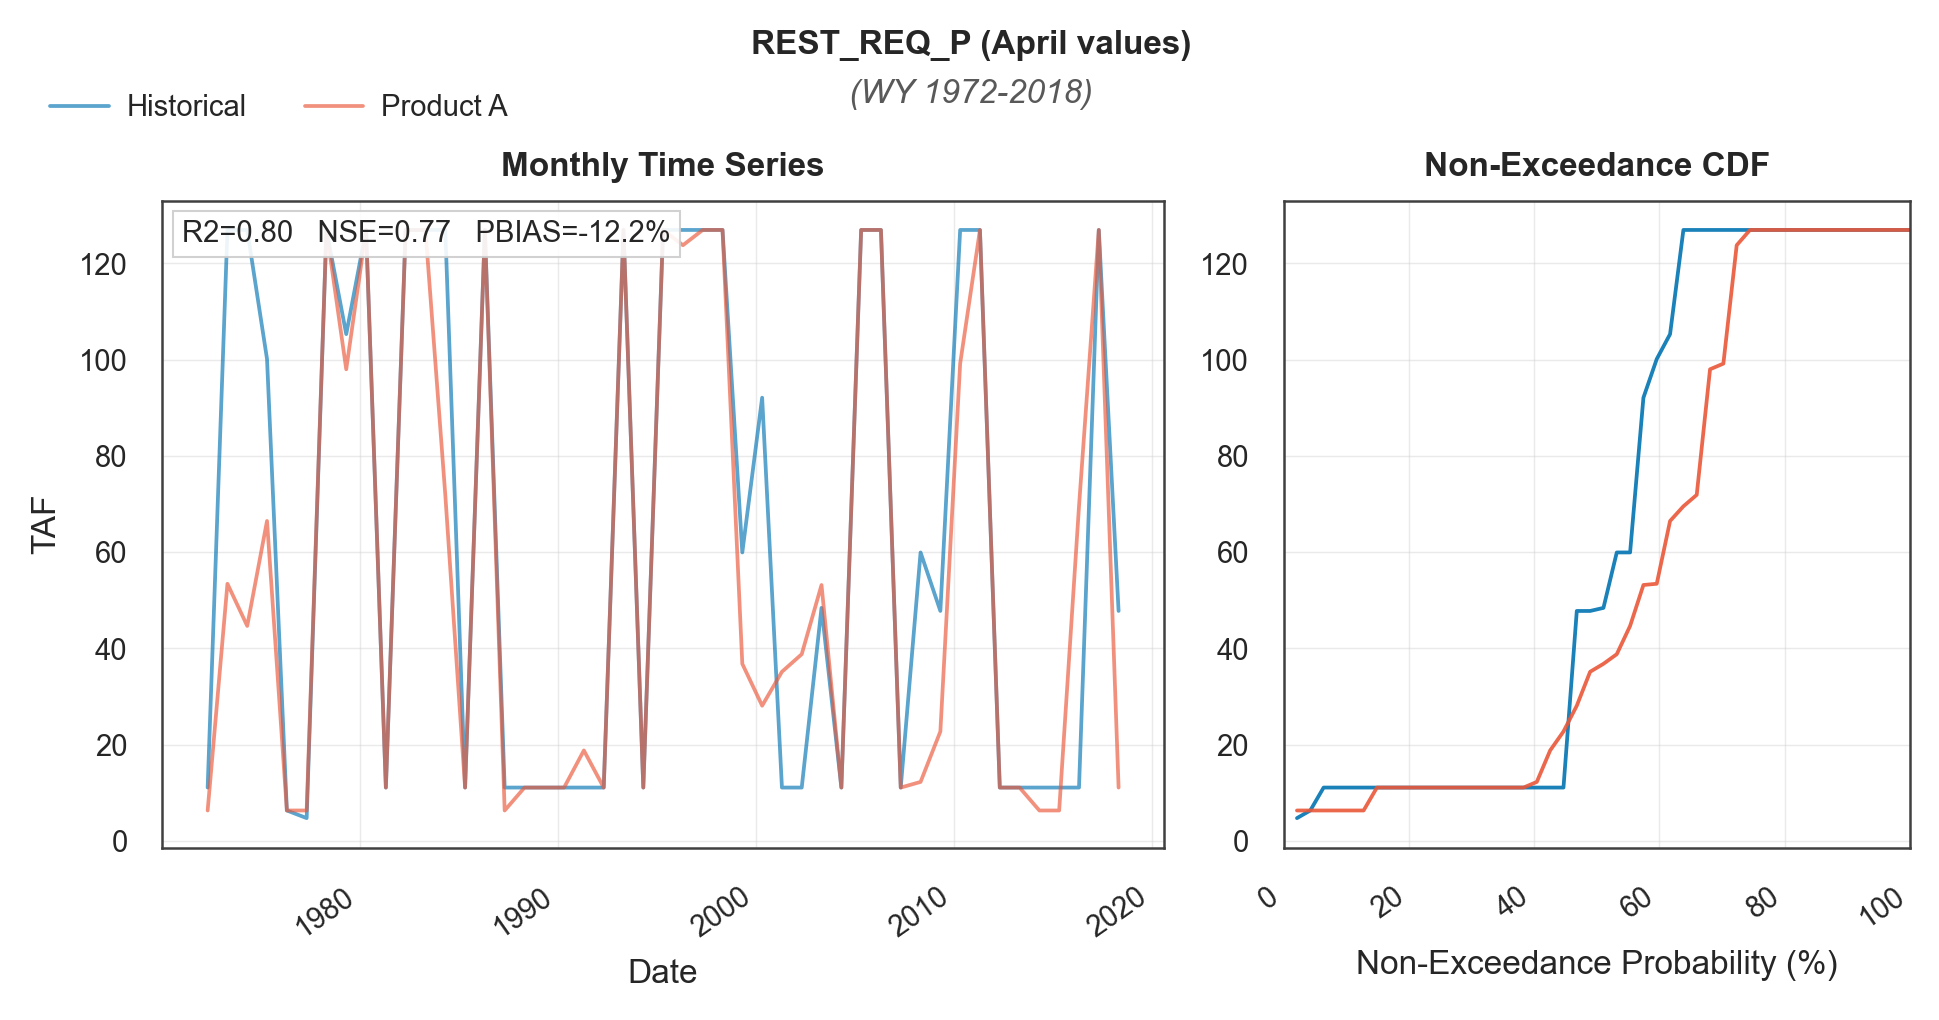
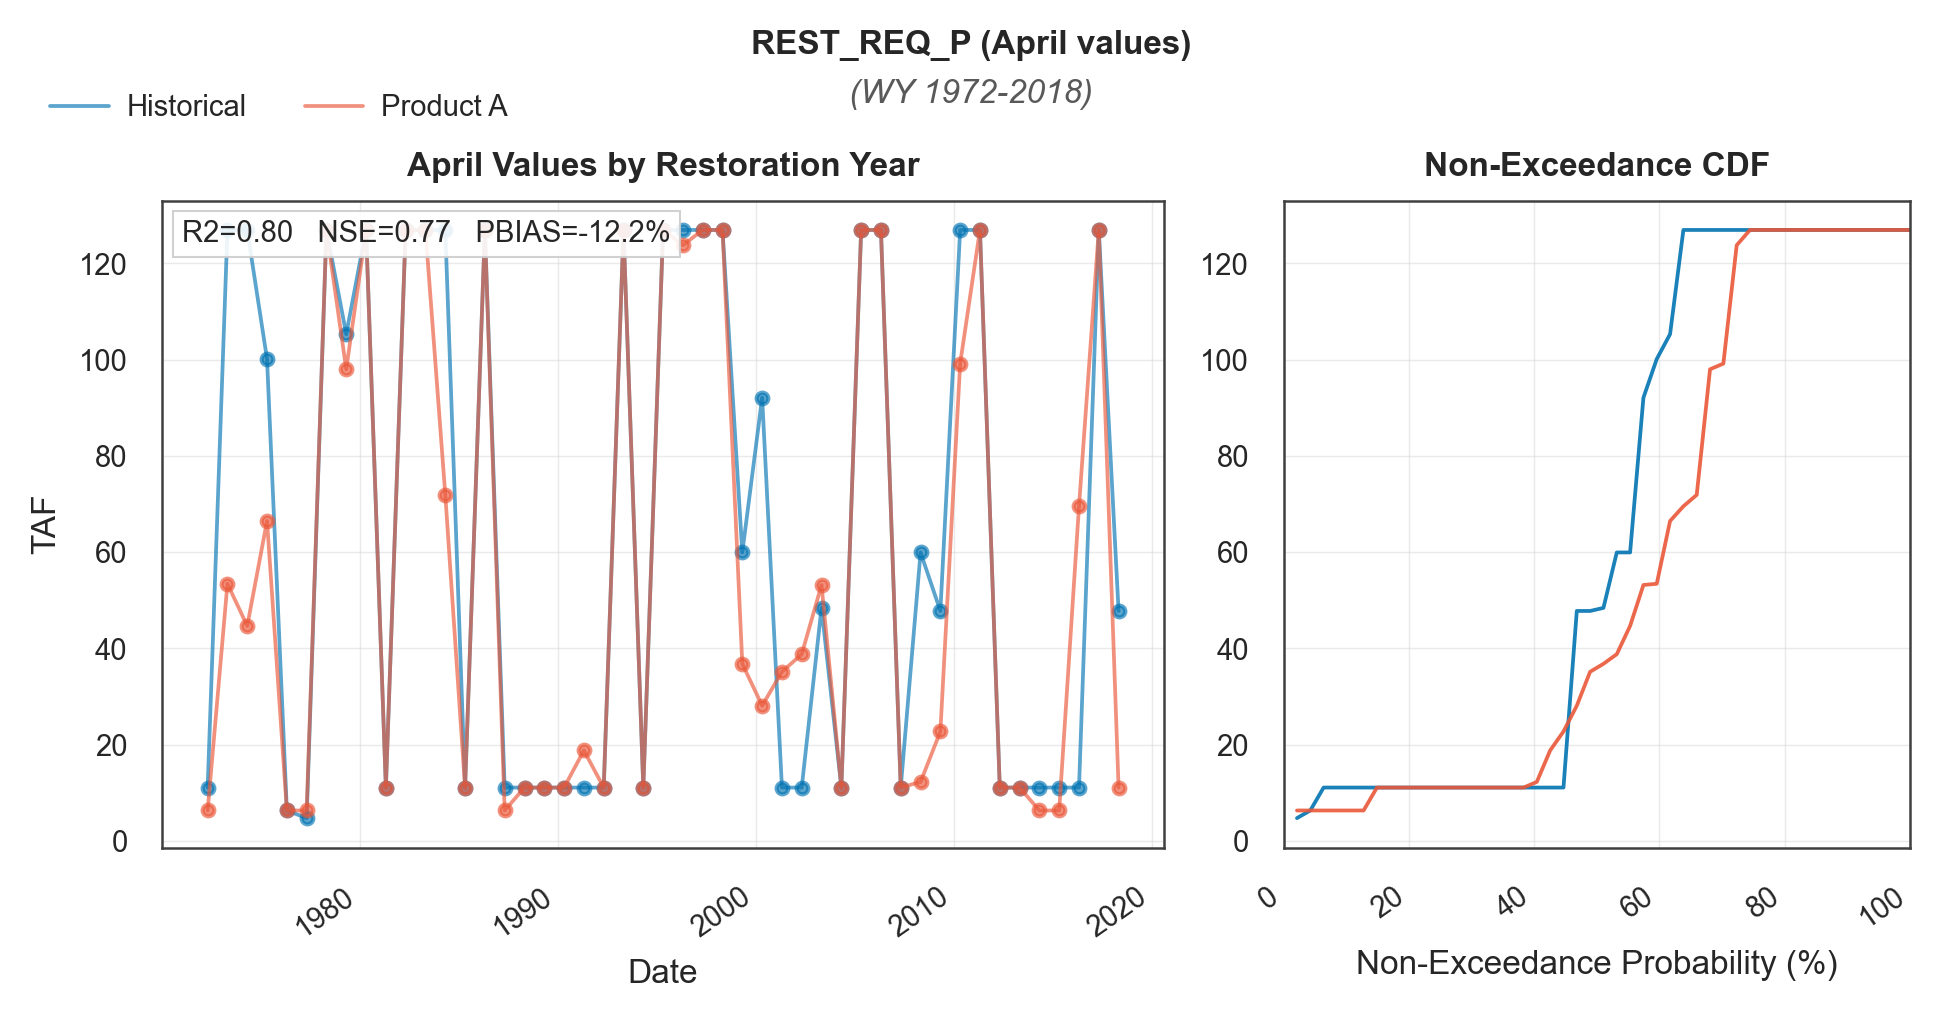
refine SJR Results section and pulse validation figure
- reframe Results around two comparisons with explicit statistic
  conventions (non-pulse monthly, pulse April values only) and add R2
  alongside NSE/PBIAS
- explain threshold step vs April ramp mechanisms with concrete rates
  and a WY 1973 example; state PBIAS sign convention
- pulse figure: retitle left panel to April Values by Restoration Year
  and add per-year markers

diff --git a/mod_other/instream_flows/_2_sjr_rest_req.py b/mod_other/instream_flows/_2_sjr_rest_req.py
@@ -596,7 +596,7 @@ def plot_product_a_validation(
     the actual CalSim input, in the shared ``utils.validation_plots`` style.
     Non-pulse compares monthly values; pulse compares April values only.
     ``crossing_years`` restoration years (Mar-Feb) are shaded on the
-    non-pulse panel only; the crossings barely move the pulse.
+    non-pulse panel.
     """
     import matplotlib.pyplot as plt
     from utils.validation_plots import Series, plot_ts_cdf
@@ -628,6 +628,13 @@ def plot_product_a_validation(
             unit="TAF",
             compute_metrics_from=0,
         )
+        if bpart == pulse_bpart:
+            # One value per restoration year: mark the points and retitle.
+            ax_ts = fig.axes[0]
+            ax_ts.set_title("April Values by Restoration Year")
+            for line in ax_ts.lines:
+                line.set_marker("o")
+                line.set_markersize(2.8)
         if shade:
             ax_ts = fig.axes[0]
             for ry in crossing_years or []:

diff --git a/docs/source/input-generation/mod-other-instream-flows.md b/docs/source/input-generation/mod-other-instream-flows.md
@@ -54,15 +54,15 @@ The resulting schedule applies over a restoration year running from March throug
 
 ### Results
 
-Two comparisons validate the reconstruction. The first isolates algorithm fidelity: driving the reconstruction with the same unimpaired flow series underlying the CalSim baseline reproduces the actual inputs over WY 1922-2021 with NSE of 0.99 for both the non-pulse and pulse components. Residuals exceeding 1 TAF occur in fewer than 4% of months, confined to restoration years 2004 and later where the baseline inputs depart from the pure settlement schedule.
+The reconstruction was evaluated with two comparisons that separate reproduction of the workbook logic from the effects of substituting VIC-based hydrology. The first comparison drives the reconstruction with the same historical UNIMP_SJ series used to develop the CalSim 3 reference inputs, so remaining differences reflect the algorithm alone. Over WY 1922-2021 the reconstruction achieves NSE = 0.99 against the reference inputs for both the monthly non-pulse series and the April pulse values.
 
-The second comparison drives the reconstruction with the VIC-based unimpaired flows underlying Product A. In each figure below the left panel compares the reconstructed Product A series with the historical CalSim input, and the right compares their non-exceedance distributions. Over WY 1972-2018 the reconstruction achieves NSE = 0.88 for the monthly non-pulse series and NSE = 0.77 for the April pulse values. Because the algorithm itself is near exact, these differences stem from differences between the CalSim baseline and VIC-based estimates of unimpaired Millerton runoff. Non-pulse spikes correspond to years where the two runoff estimates fall on opposite sides of a schedule threshold (shaded gray in the non-pulse figure), most visibly at the 2.5 MAF threshold where the May and June requirements step to their maximum. Pulse differences instead track runoff disagreement across the steep continuous ramp in the April schedule, which climbs from 350 to 4,000 CFS as the annual allocation moves between the Normal-Dry and Normal-Wet reference schedules, so the pulse remains sensitive even when no threshold is crossed. Both behaviors follow directly from the schedule structure, confirming correct algorithm implementation. The negative PBIAS values reflect the VIC-based runoff falling below the CalSim estimate in most divergent years.
+The second comparison drives the reconstruction with the VIC-based UNIMP_SJ series developed for Product A and compares the result with the same reference inputs. In each figure below the left panel shows the series and the right panel their non-exceedance distributions. Over WY 1972-2018 the monthly non-pulse series achieves R^2 = 0.89, NSE = 0.88, and PBIAS = -4.7%; the April pulse values achieve R^2 = 0.80, NSE = 0.77, and PBIAS = -12.2%. Because the first comparison establishes near exact reproduction of the workbook logic, these differences primarily reflect differences between the VIC-based and historical estimates of San Joaquin River unimpaired runoff into Millerton Lake. Non-pulse discrepancies concentrate in years where the two runoff estimates fall on opposite sides of a discontinuous schedule threshold (shaded gray in the non-pulse figure). The effect is largest at the 2.5 MAF threshold, where the May-Jun rate steps from 350 to 2,000 CFS: a year whose historical runoff falls just above 2.5 MAF while the VIC-based runoff falls just below receives very different May and June requirements. The April pulse is instead sensitive across a wide runoff range. Its Apr 16-30 rate is 350 CFS in the Normal-Dry reference schedule and 4,000 CFS in the Normal-Wet reference schedule, so allocations between the two, corresponding to roughly 1.2 to 2.0 MAF of annual runoff, place the pulse on a steep interpolated ramp. Runoff disagreements within this range produce large pulse differences without any threshold crossing. In WY 1973, for example, the historical runoff estimate (2.0 MAF) yields the full 4,000 CFS pulse, while the VIC-based estimate (1.5 MAF) yields roughly 1,700 CFS. Negative PBIAS indicates the reconstruction is lower in aggregate than the reference, consistent with lower VIC-based runoff estimates in most divergent years.
 
 ![REST_REQ_NP reconstruction](figures/s3-inputs_sjr-rest-req-np-validation.png)
-*`REST_REQ_NP` non-pulse restoration requirement reconstruction (WY 1972-2018). NSE = 0.88, PBIAS = -4.7%; Product A (orange) vs historical (blue). Gray bands mark restoration years where the CalSim and VIC-based annual runoff fall on opposite sides of a schedule threshold (400 TAF, 670 TAF, or 2.5 MAF).*
+*`REST_REQ_NP` non-pulse restoration requirement reconstruction (WY 1972-2018). NSE = 0.88, PBIAS = -4.7%; Product A (orange) vs historical (blue). Gray bands mark restoration years where the historical and VIC-based annual runoff estimates fall on opposite sides of a discontinuous schedule threshold (400 TAF, 670 TAF, or 2.5 MAF). Statistics are computed from monthly values.*
 
 ![REST_REQ_P reconstruction](figures/s3-inputs_sjr-rest-req-p-validation.png)
-*`REST_REQ_P` pulse restoration requirement reconstruction, April values (WY 1972-2018; pulse flows apply only during April). NSE = 0.77, PBIAS = -12.2%; Product A (orange) vs historical (blue). Differences track runoff disagreement across the steep April ramp of the release schedules rather than threshold crossings.*
+*`REST_REQ_P` pulse restoration requirement reconstruction, April values (WY 1972-2018; pulse flows apply only during April). NSE = 0.77, PBIAS = -12.2%; Product A (orange) vs historical (blue). Differences track runoff disagreement across the steep April ramp of the release schedules rather than threshold crossings. Statistics are computed from April values only.*
 
 
 ## Feather River Minimum Flows
